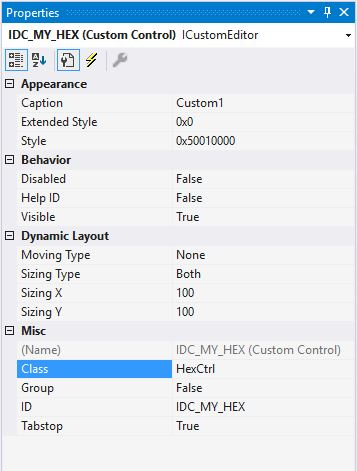
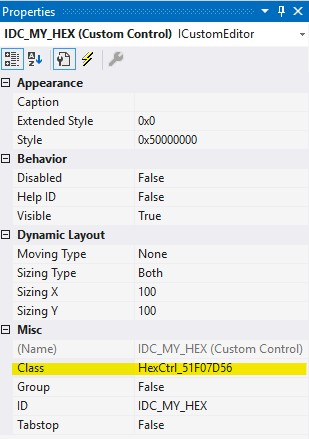
IHexCtrlPtr CreateHexCtrl(HINSTANCE hInstClass), the hInstClass argument was removed. The HexCtrl Window Class is now created with a CS_GLOBALCLASS style flag, which allows avoid crutches with providing exe hinstance into a dll. HexCtrl Window Class name is now set to HexCtrl_51F07D56 just to be uni

diff --git a/HexCtrl/src/CHexCtrl.cpp b/HexCtrl/src/CHexCtrl.cpp
@@ -33,14 +33,14 @@ import HEXCTRL.HexUtility;
 
 using namespace HEXCTRL::INTERNAL;
 
-HEXCTRLAPI HEXCTRL::IHexCtrlPtr HEXCTRL::CreateHexCtrl(HINSTANCE hInstClass) {
+HEXCTRLAPI HEXCTRL::IHexCtrlPtr HEXCTRL::CreateHexCtrl() {
 #if defined(HEXCTRL_MANUAL_MFC_INIT)
 	//MFC initialization, if HexCtrl is used in non MFC project with the "Shared MFC" linking.
 	if (!AfxGetModuleState()->m_lpszCurrentAppName) {
 		AfxWinInit(::GetModuleHandleW(nullptr), nullptr, ::GetCommandLineW(), 0);
 	}
 #endif
-	return IHexCtrlPtr { new HEXCTRL::INTERNAL::CHexCtrl(hInstClass) };
+	return IHexCtrlPtr { new HEXCTRL::INTERNAL::CHexCtrl() };
 }
 
 #if defined(HEXCTRL_DYNAMIC_LIB) || defined(HEXCTRL_MANUAL_MFC_INIT)
@@ -136,22 +136,20 @@ BEGIN_MESSAGE_MAP(CHexCtrl, CWnd)
 	ON_WM_VSCROLL()
 END_MESSAGE_MAP()
 
-CHexCtrl::CHexCtrl(HINSTANCE hInstClass)
+CHexCtrl::CHexCtrl()
 {
-	//GetModuleHandleW(nullptr) always returns handle to the .exe used to create the calling process.
-	//AfxGetInstanceHandle() returns either .exe or DLL handle, if called from DLL linked with the _USRDLL version of MFC.
-	//When using HexCtrl as a Custom control in a dialog, it's vital to register Window Class (wc.hInstance) with
-	//the .exe's handle (not the DLL's), for proper subclassing.
-	//Otherwise, a custom control won't find the "HexCtrl" Window Class, and dialog won't even start.
-	//The hInstClass arg here is exactly for that, to provide handle to the dialog's .exe.
-
-	const auto hInst = hInstClass != nullptr ? hInstClass : AfxGetInstanceHandle();
-	if (WNDCLASSEXW wc; GetClassInfoExW(hInst, m_pwszClassName, &wc) == FALSE) {
+	//CS_GLOBALCLASS flag creates window class which is global to a whole app.
+	//This window class can be accessed from the app itself and from any dll this app uses.
+	//If HexCtrl is used as a regular dll, its window class will be registered with
+	//the hInstance of the dll and hence will be unavailable from the main app.
+	//It's mostly vital for the Custom controls within dialogs, which must have access to custom
+	//classes names during dialog creation.
+	if (WNDCLASSEXW wc; GetClassInfoExW(nullptr, m_pwszClassName, &wc) == FALSE) {
 		wc.cbSize = sizeof(WNDCLASSEXW);
-		wc.style = CS_DBLCLKS | CS_HREDRAW | CS_VREDRAW;
+		wc.style = CS_GLOBALCLASS | CS_DBLCLKS | CS_HREDRAW | CS_VREDRAW;
 		wc.lpfnWndProc = ::DefWindowProcW;
 		wc.cbClsExtra = wc.cbWndExtra = 0;
-		wc.hInstance = hInst;
+		wc.hInstance = AfxGetInstanceHandle();
 		wc.hIcon = wc.hIconSm = nullptr;
 		wc.hCursor = static_cast<HCURSOR>(LoadImageW(nullptr, IDC_ARROW, IMAGE_CURSOR, 0, 0, LR_DEFAULTSIZE | LR_SHARED));
 		wc.hbrBackground = nullptr;
@@ -162,6 +160,11 @@ CHexCtrl::CHexCtrl(HINSTANCE hInstClass)
 			return;
 		}
 	}
+}
+
+CHexCtrl::~CHexCtrl()
+{
+	UnregisterClassW(m_pwszClassName, nullptr);
 }
 
 void CHexCtrl::ClearData()

diff --git a/HexCtrl/src/CHexCtrl.h b/HexCtrl/src/CHexCtrl.h
@@ -31,13 +31,12 @@ namespace HEXCTRL::INTERNAL {
 	********************************************************************************************/
 	class CHexCtrl final : public CWnd, public IHexCtrl {
 	public:
-		explicit CHexCtrl() = default;
-		explicit CHexCtrl(HINSTANCE hInstClass);
+		explicit CHexCtrl();
 		CHexCtrl(const CHexCtrl&) = delete;
 		CHexCtrl(CHexCtrl&&) = delete;
 		CHexCtrl& operator=(const CHexCtrl&) = delete;
 		CHexCtrl& operator=(CHexCtrl&&) = delete;
-		~CHexCtrl() = default;
+		~CHexCtrl();
 		void ClearData()override;
 		bool Create(const HEXCREATE& hcs)override;
 		bool CreateDialogCtrl(UINT uCtrlID, HWND hWndParent)override;
@@ -219,7 +218,7 @@ namespace HEXCTRL::INTERNAL {
 		DECLARE_MESSAGE_MAP();
 	private:
 		static constexpr auto m_pwszHexChars { L"0123456789ABCDEF" }; //Hex digits wchars for fast lookup.
-		static constexpr auto m_pwszClassName { L"HexCtrl" };         //HexCtrl Window Class name.
+		static constexpr auto m_pwszClassName { L"HexCtrl_51F07D56" };//HexCtrl unique Window Class name.
 		static constexpr auto m_uIDTTTMain { 0x01UL };                //Timer ID for default tooltip.
 		static constexpr auto m_iIndentBottomLine { 1 };              //Bottom line indent from window's bottom.
 		static constexpr auto m_iFirstHorzLinePx { 0 };               //First horizontal line indent.

diff --git a/HexCtrl/src/Dialogs/CHexDlgBkmMgr.cpp b/HexCtrl/src/Dialogs/CHexDlgBkmMgr.cpp
@@ -7,7 +7,6 @@
 #include "stdafx.h"
 #include "../../res/HexCtrlRes.h"
 #include "CHexDlgBkmMgr.h"
-#include <afxcontrolbars.h>
 #include <algorithm>
 #include <cassert>
 #include <format>
@@ -545,12 +544,14 @@ void CHexDlgBkmMgr::OnListDblClick(NMHDR* pNMHDR, LRESULT* /*pResult*/)
 		return;
 	}
 
-	CMFCColorDialog dlg(*pClr, 0, this);
-	if (dlg.DoModal() != IDOK) {
+	COLORREF arrClr[16] { };
+	CHOOSECOLORW stChclr { .lStructSize { sizeof(CHOOSECOLORW) }, .rgbResult { *pClr },
+		.lpCustColors { arrClr }, .Flags { CC_ANYCOLOR | CC_FULLOPEN | CC_RGBINIT } };
+	if (ChooseColorW(&stChclr) == FALSE) {
 		return;
 	}
 
-	*pClr = dlg.GetColor();
+	*pClr = stChclr.rgbResult;
 	m_pHexCtrl->Redraw();
 }
 

diff --git a/HexCtrl/HexCtrl.h b/HexCtrl/HexCtrl.h
@@ -471,7 +471,7 @@ namespace HEXCTRL {
 
 	struct IHexCtrlDeleter { void operator()(IHexCtrl* p)const { p->Destroy(); } };
 	using IHexCtrlPtr = std::unique_ptr<IHexCtrl, IHexCtrlDeleter>;
-	[[nodiscard]] HEXCTRLAPI IHexCtrlPtr CreateHexCtrl(HINSTANCE hInstClass = nullptr);
+	[[nodiscard]] HEXCTRLAPI IHexCtrlPtr CreateHexCtrl();
 
 	/**************************************************************************
 	* WM_NOTIFY message codes (NMHDR.code values).                            *

diff --git a/VS Projects/Win32 App/Win32 App.cpp b/VS Projects/Win32 App/Win32 App.cpp
@@ -81,7 +81,7 @@ BOOL InitInstance(HINSTANCE hInstance, int nCmdShow)
 	}
 
 	//Create HexCtrl instance.
-	m_pHex = HEXCTRL::CreateHexCtrl(hInstance);
+	m_pHex = HEXCTRL::CreateHexCtrl();
 
 	//Create HexCtrl window.
 	m_pHex->Create({ .hWndParent { hWnd }, .uID { IDC_HEXCTRL_MAIN }, .dwStyle { WS_VISIBLE | WS_CHILD } });

diff --git a/VS Projects/MFC Dialog DLL/CMFCDialogDLLDlg.h b/VS Projects/MFC Dialog DLL/CMFCDialogDLLDlg.h
@@ -20,7 +20,7 @@ private:
 	DECLARE_MESSAGE_MAP()
 private:
 	HICON m_hIcon;
-	IHexCtrlPtr m_pHexDlg { CreateHexCtrl(AfxGetInstanceHandle()) };
+	IHexCtrlPtr m_pHexDlg { CreateHexCtrl() };
 	HEXDATA m_hds;
 	std::byte m_RandomData[16 * 1024];
 };

diff --git a/VS Projects/MFC Dialog DLL/Resource.h b/VS Projects/MFC Dialog DLL/Resource.h
@@ -1,6 +1,6 @@
 //{{NO_DEPENDENCIES}}
 // Microsoft Visual C++ generated include file.
-// Used by SampleDialogDLL.rc
+// Used by MFCDialogDLL.rc
 //
 #define IDD_HEXCTRL_SAMPLEDLL           102
 #define IDR_MAINFRAME                   128

diff --git a/VS Projects/MFC Dialog/Resource.h b/VS Projects/MFC Dialog/Resource.h
@@ -1,6 +1,6 @@
 //{{NO_DEPENDENCIES}}
 // Microsoft Visual C++ generated include file.
-// Used by SampleDialog.rc
+// Used by MFCDialog.rc
 //
 #define IDD_HEXCTRL_SAMPLE              102
 #define IDR_MAINFRAME                   128

diff --git a/README.md b/README.md
@@ -202,7 +202,7 @@ To use **HexCtrl** in a Dialog you can create it with the [Classic Approach](#cl
 But there is another option:
 1. Put the **Custom Control** from the **Toolbox** in **Visual Studio** dialog designer onto your dialog template.  
 ![](docs/img/HexCtrl_VSToolbox.jpg) ![](docs/img/HexCtrl_VSCustomCtrl.jpg)
-2. In the **Properties** of this control in the **Class** field, within the **Misc** section, put: *HexCtrl*.
+2. In the **Properties** of this control in the **Class** field, within the **Misc** section, put: **HexCtrl_51F07D56**.
 ![](docs/img/HexCtrl_VSProperties.jpg)
 3. Declare `IHexCtrlPtr` member variable within your dialog class:
     ```cpp
@@ -217,10 +217,10 @@ But there is another option:
     ```
 
 ### [](#)CreateHexCtrl
-```cpp
-[[nodiscard]] IHexCtrlPtr CreateHexCtrl(HINSTANCE hInstClass = nullptr);
+```cpp 
+[[nodiscard]] IHexCtrlPtr CreateHexCtrl();
 ```
-This is the main factory function for creating **HexCtrl** object. The `hInstClass` argument might be additionally provided to set the `HINSTANCE` where **HexCtrl**'s window class will be registered, its main application is for cases when **HexCtrl** is build as a DLL and used as a custom-control in a dialog.
+This is the main factory function for creating **HexCtrl** object. The `IHexCtrlPtr` class is a `IHexCtrl` interface pointer wrapped into a standard `std::unique_ptr` with custom deleter, so you don't need to worry about its destruction.
 
 ## [](#)Setting Data
 To set a data for the **HexCtrl** the [`SetData`](#setdata) method is used. The code below shows how to construct `HexCtrl` object and display first `0x1FF` bytes of the current app's memory:
